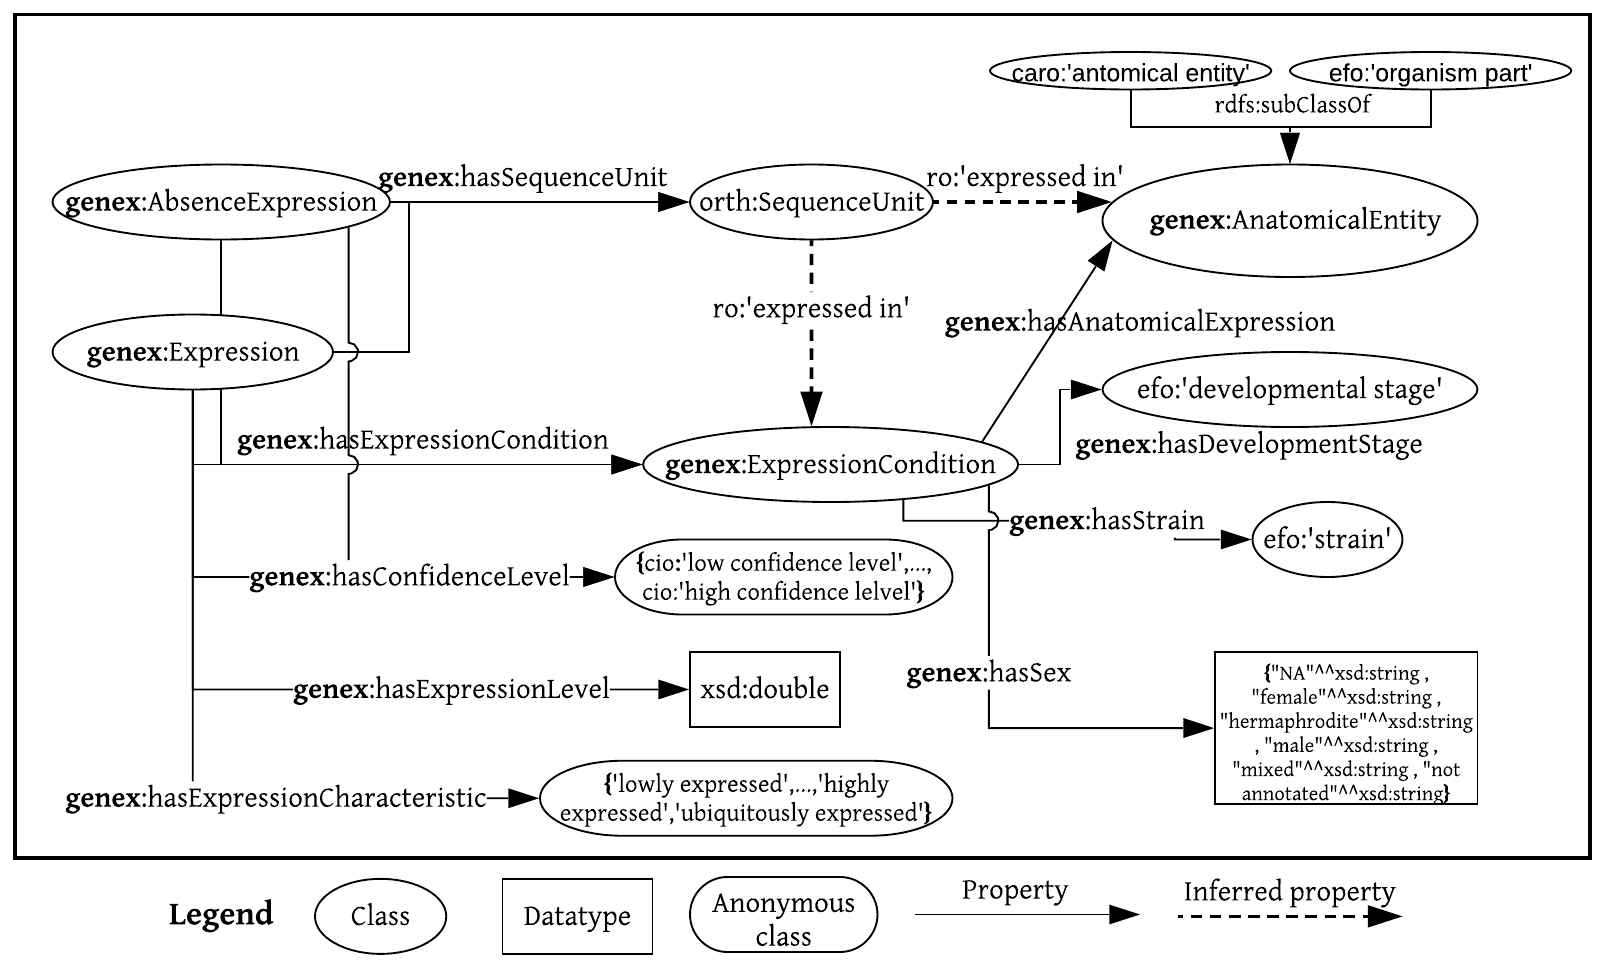
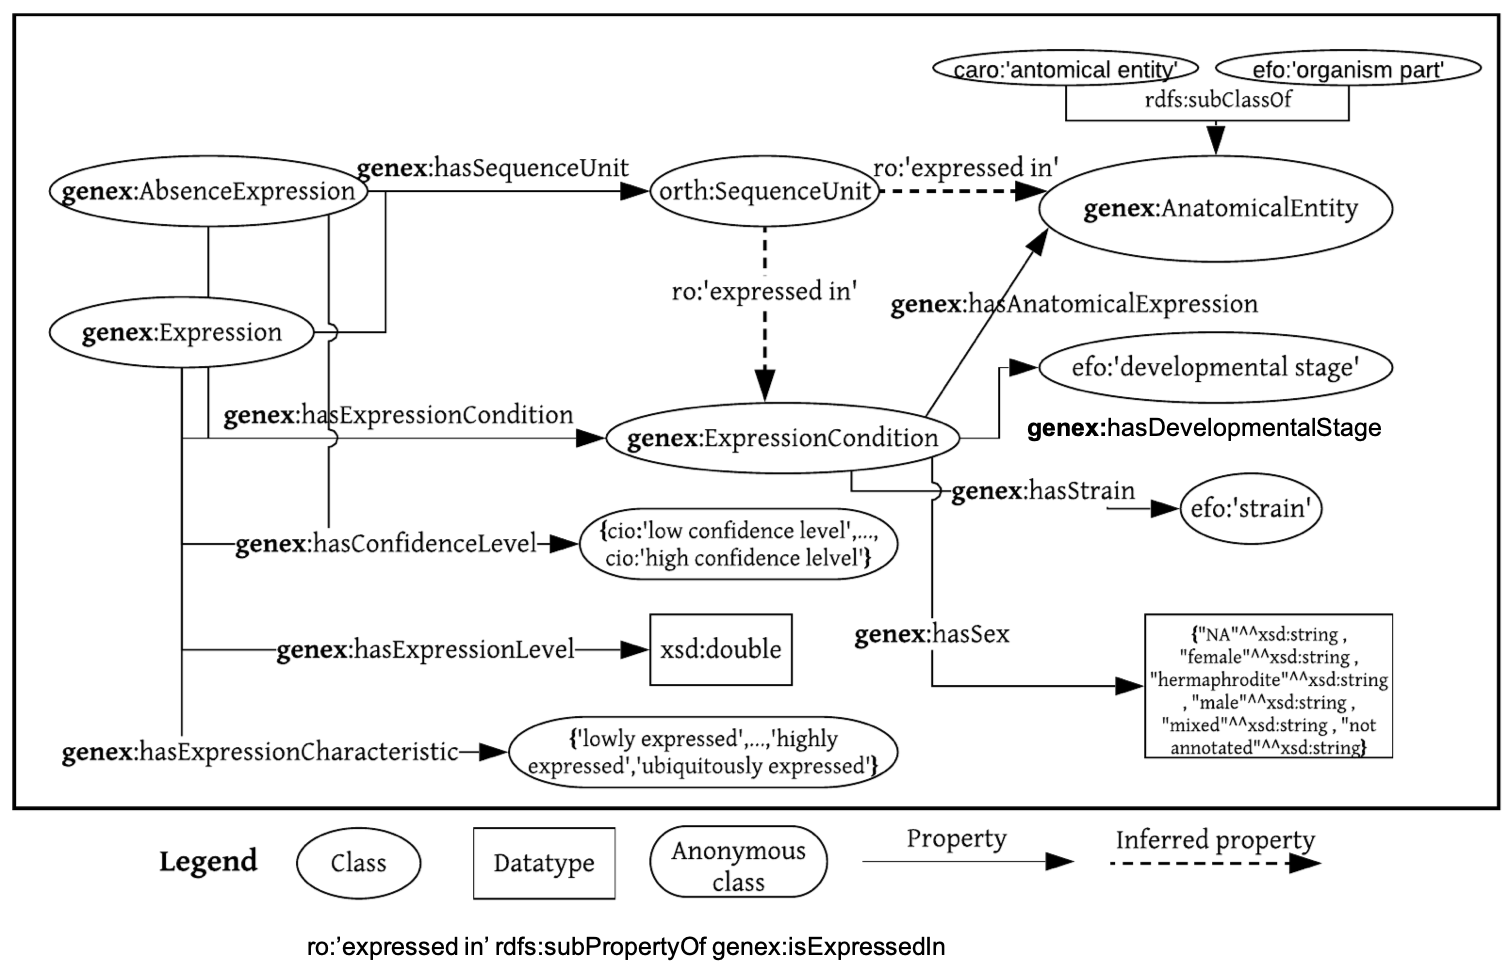
corrected Fig 1, added ref to bgee paper

diff --git a/docs/sections/description-en.html b/docs/sections/description-en.html
@@ -23,7 +23,7 @@ so-called  <a href="#AbsenceExpression">genex:AbsenceExpression</a>. The  <a hre
 for representing gene expression according to a given experimental condition (e.g. sex and anatomical entity). 
  <a href="#AbsenceExpression">genex:AbsenceExpression</a> is not equivalent to the negation of the  <a href="#Expression">genex:Expression</a> because it may lack experiments 
 to conclude that a gene is expressed (i.e. missing gene expression information). Therefore, solely data processed 
-from experiments which confirm no presence of expression are described by using the  <a href="#AbsenceExpression">genex:AbsenceExpression</a> class. 
+from experiments which confirm no presence of expression are described by using the  <a href="#AbsenceExpression">genex:AbsenceExpression</a> class. We highlight that the <a href="https://bgee.org">Bgee database</a> provides absence of expression, Bastian et al. in <a href="#bastian2021">[1]</a> describe how the absence of expression information is computed in the Bgee database by also discussing about expression calls.  
 </p>
 
 <p>

diff --git a/docs/sections/references-en.html b/docs/sections/references-en.html
@@ -1,6 +1,8 @@
 <html>
 <h2 id="ref" class="list">References <span class="backlink"> back to <a href="#toc">ToC</a></span></h2>
-<span class="markdown">
-Add your references here. It is recommended to have them as a list.</span>
+<ol>
+  <li id="bastian2021">Frederic B Bastian, Julien Roux, Anne Niknejad, Aurélie Comte, Sara S Fonseca Costa, Tarcisio Mendes de Farias, Sébastien Moretti, Gilles Parmentier, Valentine Rech de Laval, Marta Rosikiewicz, Julien Wollbrett, Amina Echchiki, Angélique Escoriza, Walid H Gharib, Mar Gonzales-Porta, Yohan Jarosz, Balazs Laurenczy, Philippe Moret, Emilie Person, Patrick Roelli, Komal Sanjeev, Mathieu Seppey, Marc Robinson-Rechavi, The Bgee suite: integrated curated expression atlas and comparative transcriptomics in animals, Nucleic Acids Research, Volume 49, Issue D1, 8 January 2021, Pages D831–D847, <a href="https://doi.org/10.1093/nar/gkaa793">https://doi.org/10.1093/nar/gkaa793</a></li>
+
+</ol> 
 
 </html>
